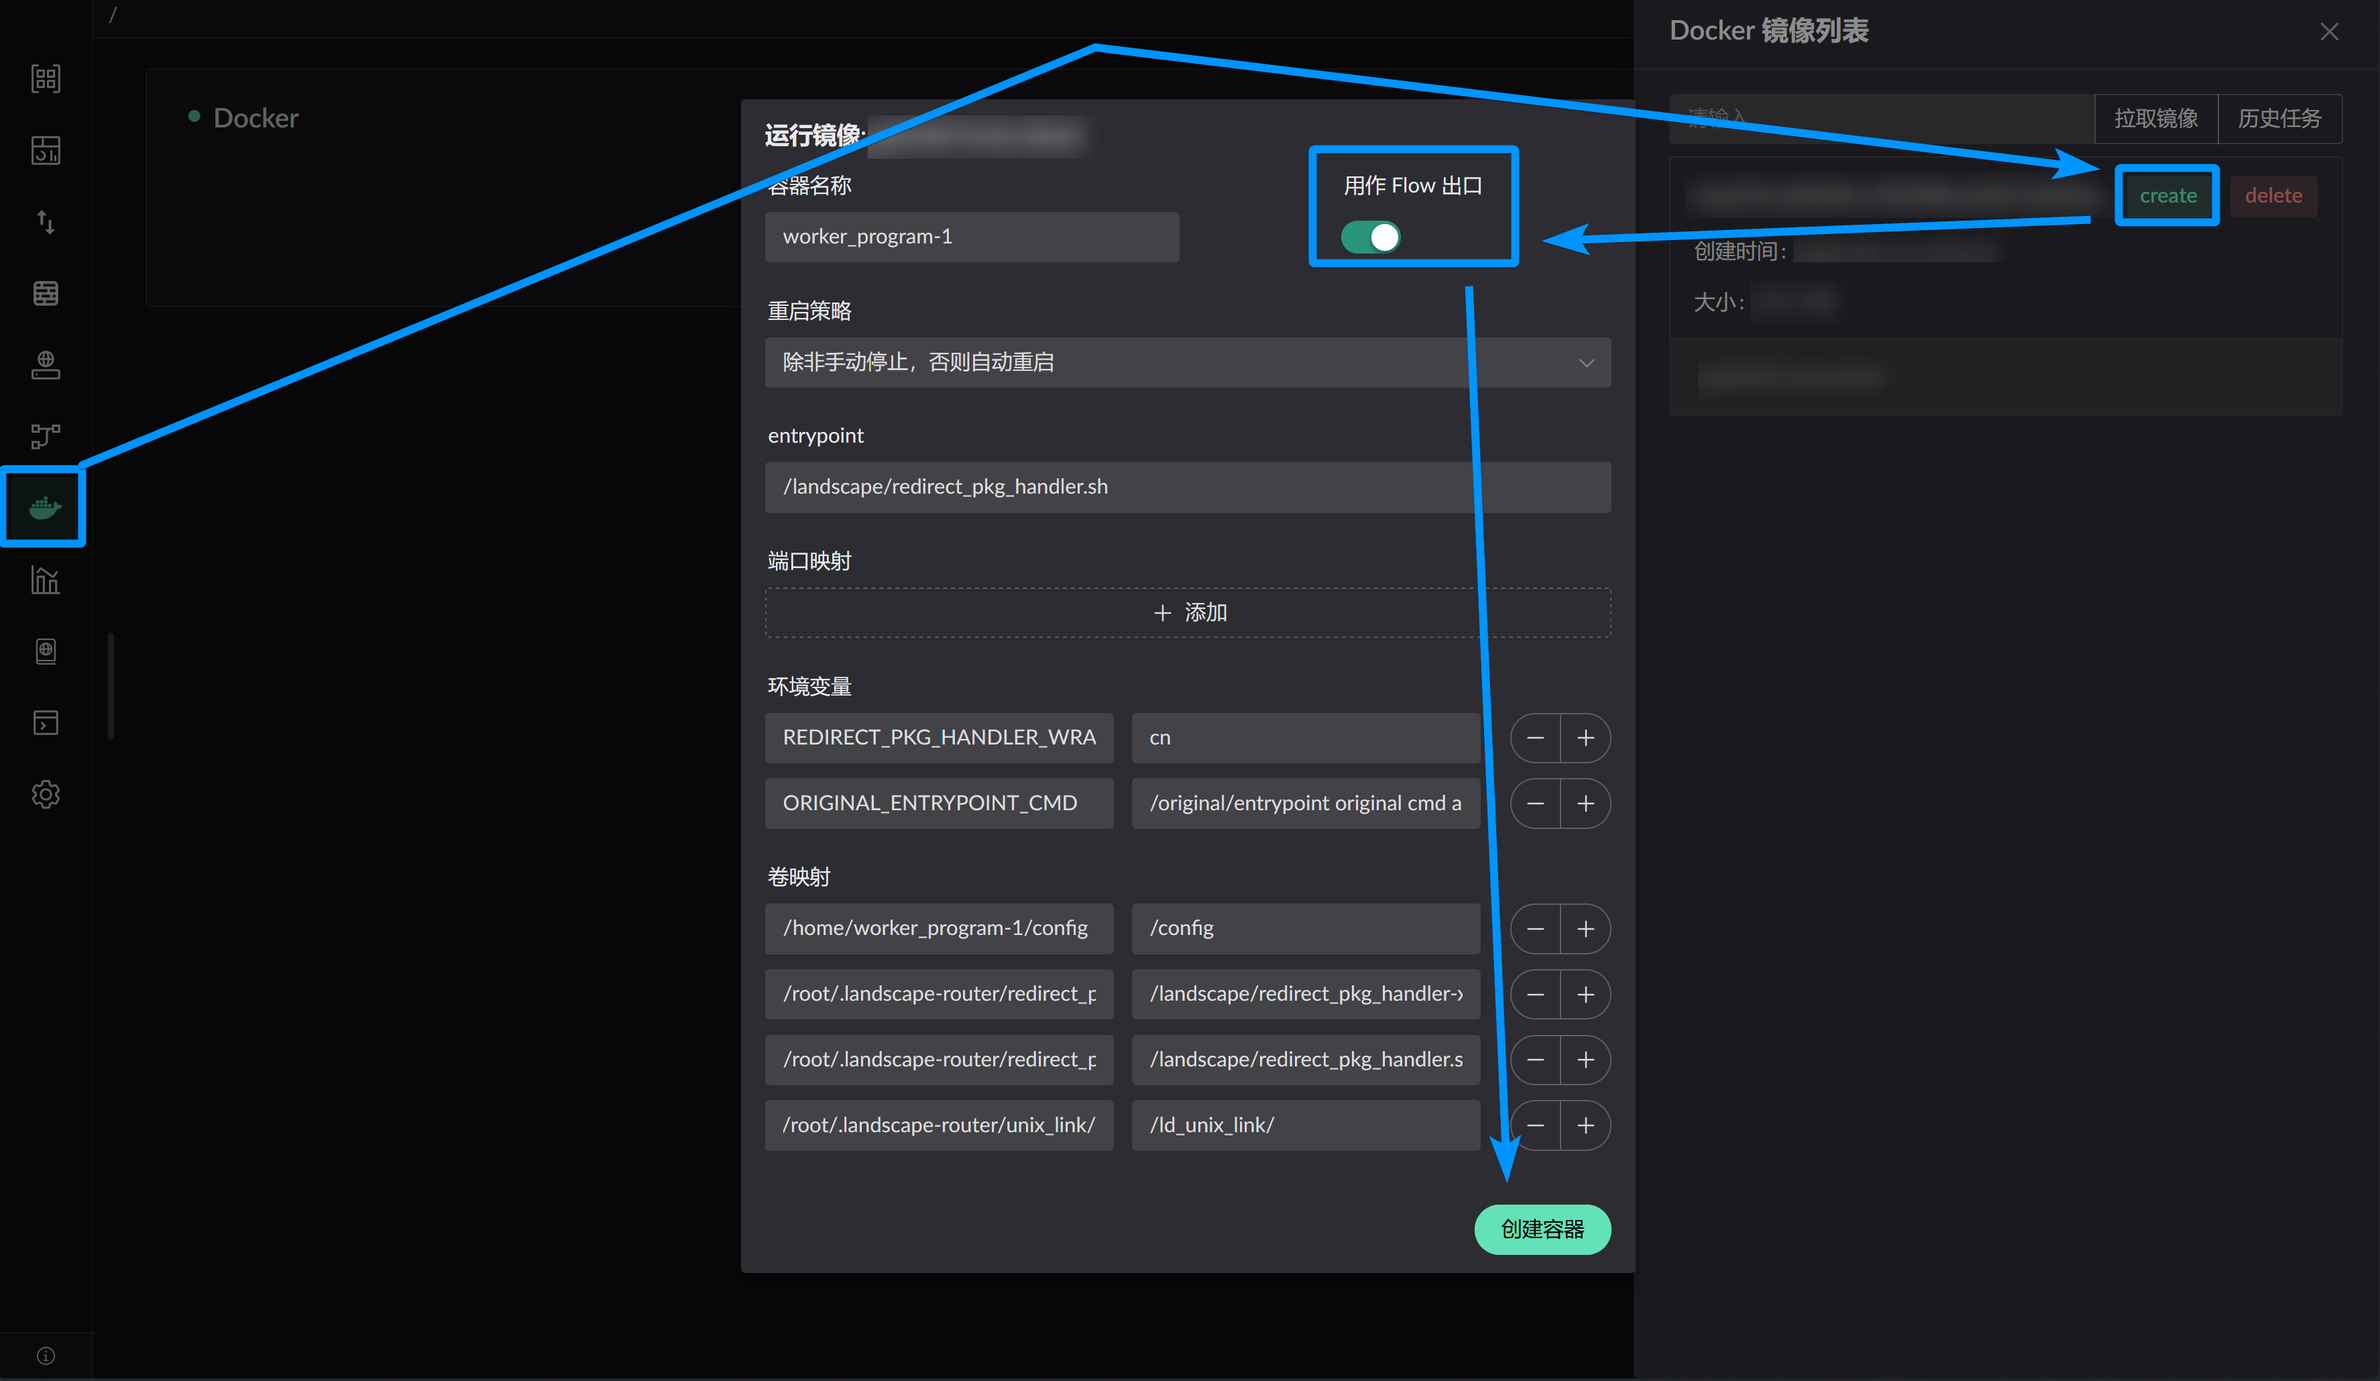
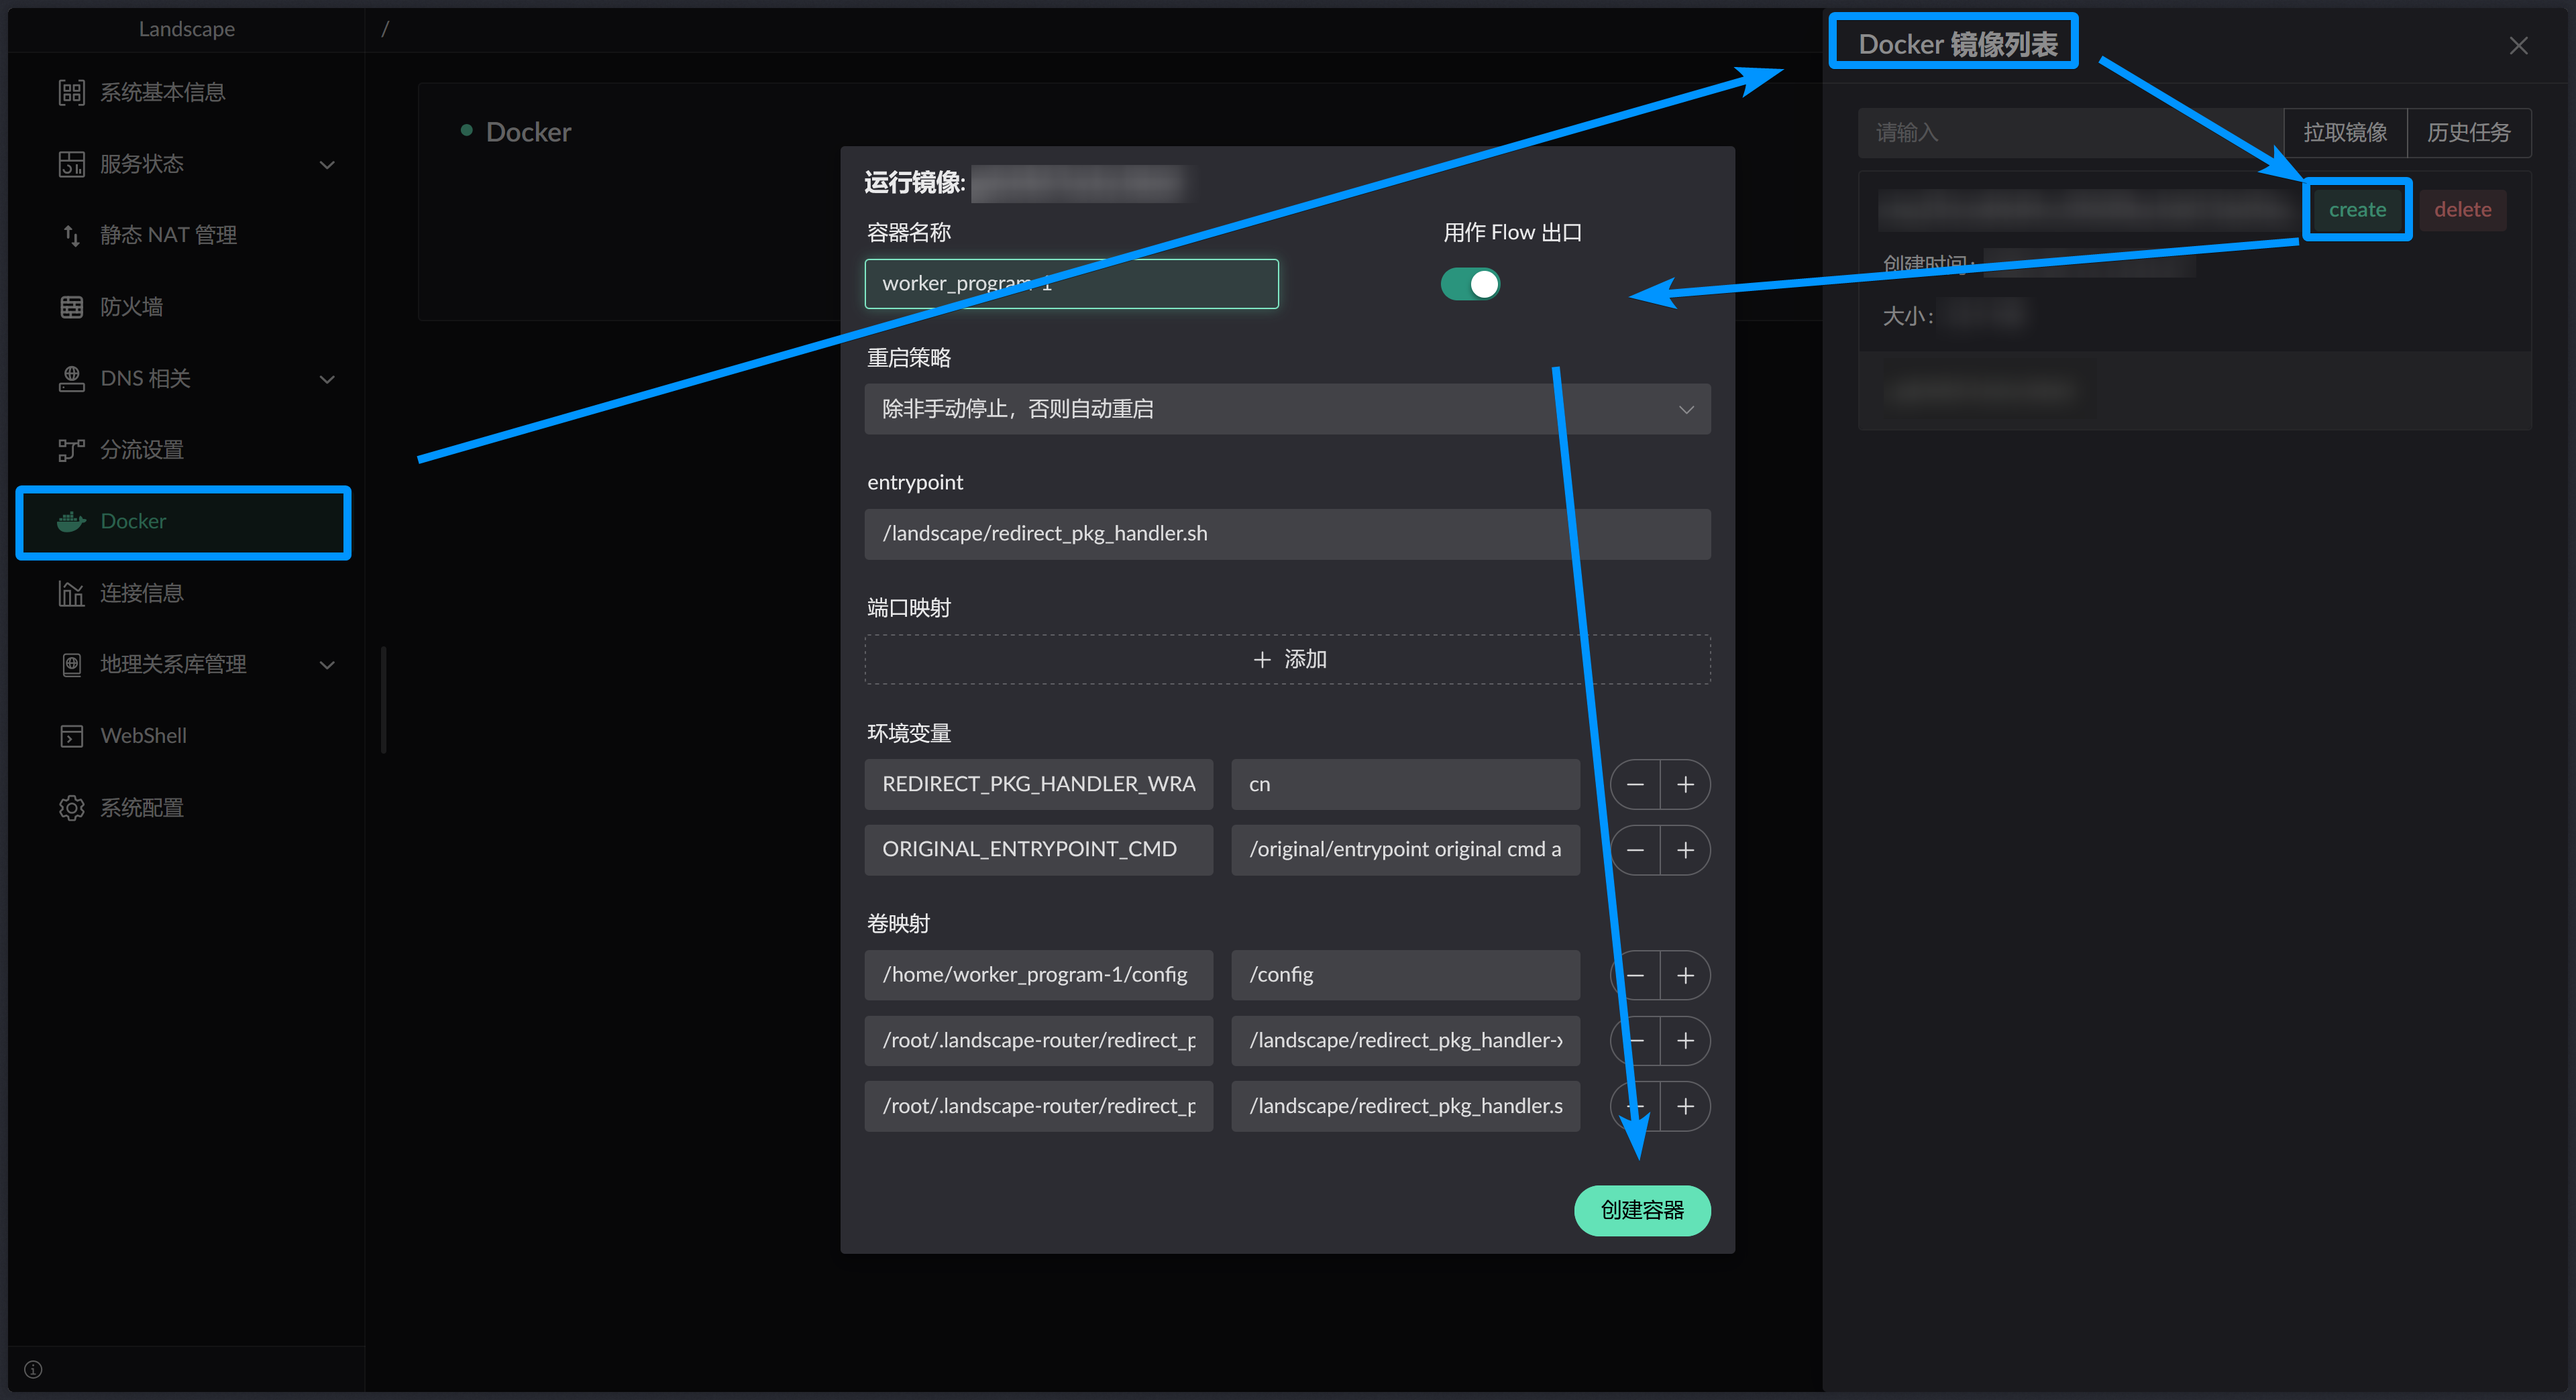
update

diff --git a/docs/3-Docker容器作为分流出口-接应容器.md b/docs/3-Docker容器作为分流出口-接应容器.md
@@ -244,8 +244,6 @@ ORIGINAL_ENTRYPOINT_CMD
 /landscape/redirect_pkg_handler-x86_64-musl
 /root/.landscape-router/redirect_pkg_handler.sh
 /landscape/redirect_pkg_handler.sh
-/root/.landscape-router/unix_link/
-/ld_unix_link/
 ```
 ![](/images/21.png)
 
